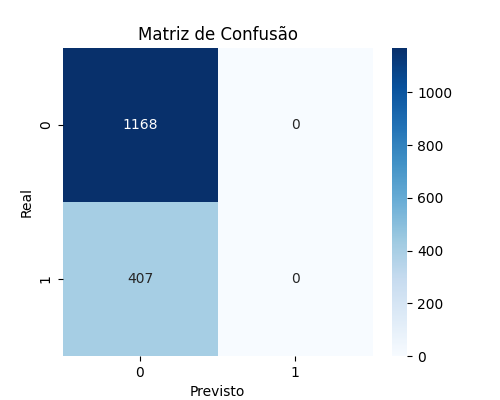
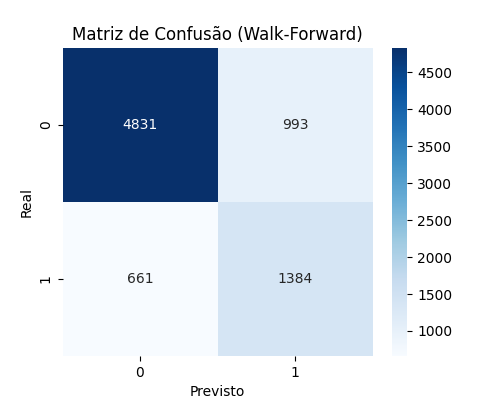
feat: implementando a lógica para prever se vai chover com base nos dados que o usuário disponibilizou

diff --git a/main.py b/main.py
@@ -1,52 +1,89 @@
-from src import data_preprocessing, feature_engineering, model, evaluate, predict
+from src import data_preprocessing, feature_engineering
 
 def main():
-    # 1. Carrega e limpa os dados de múltiplas planilhas
-    excel_files = [
-        "data/raw/open-meteo-10.65S37.41W187m.xlsx"
-    ]
-    df = data_preprocessing.load_and_clean(excel_files)
+    print("Escolha uma opção:")
+    print("1 - Treinar e avaliar IA (walk-forward)")
+    print("2 - Inserir 3 linhas de dados para previsão manual")
+    opcao = input("Digite 1 ou 2: ").strip()
 
-    print("Primeiras linhas da planilha:")
-    print(df.head())
+    if opcao == "1":
+        excel_files = ["data/raw/open-meteo-10.65S37.41W187m.xlsx"]
+        df = data_preprocessing.load_and_clean(excel_files)
+        X, y = feature_engineering.create_features(df)
+        from sklearn.preprocessing import StandardScaler
+        features = X.columns.tolist()
+        scaler = StandardScaler()
+        X_normalized = X.copy()
+        X_normalized[features] = scaler.fit_transform(X[features])
+        import matplotlib.pyplot as plt
+        plt.bar(df["chuva"].value_counts().index, df["chuva"].value_counts().values, color=["blue", "green"])
+        plt.xticks([0, 1], ["Não Chove", "Chove"])
+        plt.xlabel("Classe (Chuva)")
+        plt.ylabel("Número de Registros")
+        plt.title("Distribuição da Variável Chuva")
+        plt.show()
+        from sklearn.neural_network import MLPClassifier
+        from sklearn.metrics import accuracy_score
+        y_true = []
+        y_pred = []
+        window = 3
+        for i in range(window, len(X)):
+            X_train = X.iloc[i-window:i]
+            y_train = y.iloc[i-window:i]
+            X_test = X.iloc[[i]]
+            y_test = y.iloc[[i]]
+            model = MLPClassifier(hidden_layer_sizes=(100, 50), max_iter=2000, random_state=42)
+            model.fit(X_train, y_train)
+            pred = model.predict(X_test)[0]
+            y_true.append(y_test.values[0])
+            y_pred.append(pred)
+        acc = accuracy_score(y_true, y_pred)
+        print(f"\n🎯 Acurácia walk-forward: {acc:.2f}")
+        from sklearn.metrics import classification_report, confusion_matrix
+        print("\n📊 Relatório de Classificação:")
+        print(classification_report(y_true, y_pred))
+        import seaborn as sns
+        cm = confusion_matrix(y_true, y_pred)
+        plt.figure(figsize=(5,4))
+        sns.heatmap(cm, annot=True, fmt="d", cmap="Blues")
+        plt.title("Matriz de Confusão (Walk-Forward)")
+        plt.xlabel("Previsto")
+        plt.ylabel("Real")
+        plt.savefig("reports/figures/matriz_confusao.png")
+        plt.close()
 
-    # 2. Feature Engineering
-    X, y = feature_engineering.create_features(df)
-
-    # 3. Normalização (igual ao script antigo)
-    from sklearn.preprocessing import StandardScaler
-    features = X.columns.tolist()
-    scaler = StandardScaler()
-    X_normalized = X.copy()
-    X_normalized[features] = scaler.fit_transform(X[features])
-    df_normalized = X_normalized.copy()
-    if 'chuva' in df.columns:
-        df_normalized['chuva'] = df['chuva']
-    print("\nDados normalizados (primeiras linhas):")
-    print(df_normalized.head())
-
-    # 4. Distribuição da variável alvo (Chuva)
-    print("\nDistribuição da variável Chuva:")
-    print(df["chuva"].value_counts())
-
-    import matplotlib.pyplot as plt
-    plt.bar(df["chuva"].value_counts().index, df["chuva"].value_counts().values, color=["blue", "green"])
-    plt.xticks([0, 1], ["Não Chove", "Chove"])
-    plt.xlabel("Classe (Chuva)")
-    plt.ylabel("Número de Registros")
-    plt.title("Distribuição da Variável Chuva")
-    plt.show()
-
-    # 5. Treinamento do modelo
-    trained_model, X_test, y_test = model.train_model(X, y)
-
-    # 6. Avaliação
-    evaluate.evaluate_model(trained_model, X_test, y_test)
-
-    # 7. Predição com novos dados (exemplo)
-    new_data = {"temperatura": 20, "umidade": 90, "pressao": 1012}  # ajuste nomes conforme colunas
-    result = predict.make_prediction(trained_model, new_data)
-    print(f"\n📌 Previsão para novos dados: {result}")
+    elif opcao == "2":
+        features = [
+            'temperature_2m (°c)',
+            'relative_humidity_2m (%)',
+            'pressure_msl (hpa)',
+            'surface_pressure (hpa)'
+        ]
+        ultimos = []
+        for i in range(3):
+            linha = {}
+            print(f"\nLinha {i+1}:")
+            for feat in features:
+                valor = float(input(f"{feat}: "))
+                linha[feat] = valor
+            ultimos.append(linha)
+        import pandas as pd
+        excel_files = ["data/raw/open-meteo-10.65S37.41W187m.xlsx"]
+        df = data_preprocessing.load_and_clean(excel_files)
+        X, y = feature_engineering.create_features(df)
+        from sklearn.preprocessing import StandardScaler
+        scaler = StandardScaler()
+        X_scaled = scaler.fit_transform(X)
+        from sklearn.neural_network import MLPClassifier
+        model = MLPClassifier(hidden_layer_sizes=(100, 50), max_iter=2000, random_state=42)
+        model.fit(X_scaled, y)
+        X_input = pd.DataFrame(ultimos)
+        X_input_scaled = scaler.transform(X_input)
+        pred = model.predict([X_input_scaled[-1]])[0]
+        print("\nPrevisão para a próxima hora:")
+        print("Vai chover ☔" if pred == 1 else "Não vai chover ☀")
+    else:
+        print("Opção inválida!")
 
 if __name__ == "__main__":
     main()

diff --git a/src/data_preprocessing.py b/src/data_preprocessing.py
@@ -18,32 +18,22 @@ def load_and_clean(paths: List[str]):
 
     for path in paths:
         if 'open-meteo' in path:
-            # Lê a planilha usando a linha 3 (header=3) como nomes das colunas meteorológicas
             df = pd.read_excel(path, header=3)
-            # Remove linhas totalmente vazias
             df = df.dropna(how='all')
-            # Remove colunas com todos os valores nulos
             df = df.dropna(axis=1, how='all')
-            # Remove acentos e padroniza nomes de colunas para minúsculo
             df.columns = [remover_acentos(str(col)).lower() for col in df.columns]
-            # Cria coluna binária 'chuva' a partir de 'precipitation (mm)' (apenas para linhas numéricas)
             if 'precipitation (mm)' in df.columns:
-                # Remove linhas onde precipitation (mm) não é número
                 df = df[pd.to_numeric(df['precipitation (mm)'], errors='coerce').notnull()]
                 df['precipitation (mm)'] = df['precipitation (mm)'].astype(float)
                 df['chuva'] = (df['precipitation (mm)'] > 0).astype(int)
-            # Remove linhas totalmente vazias
             df = df.dropna(how='all')
-            # Remove colunas com todos os valores nulos
             df = df.dropna(axis=1, how='all')
-            # Remove acentos e padroniza nomes de colunas para minúsculo
             df.columns = [remover_acentos(str(col)).lower() for col in df.columns]
-            # Cria coluna binária 'chuva' a partir de 'precipitation (mm)'
             if 'precipitation (mm)' in df.columns:
                 df['chuva'] = (df['precipitation (mm)'] > 0).astype(int)
         else:
             df = pd.read_excel(path)
-            df = df.dropna()  # remove linhas com valores nulos
+            df = df.dropna()
             df.columns = [remover_acentos(str(col)).lower() for col in df.columns]
             for col in df.columns:
                 if col.replace(' ', '').replace('_', '').startswith('data') and ('hora' in col or 'hr' in col):
@@ -52,9 +42,7 @@ def load_and_clean(paths: List[str]):
                 df['data/hora'] = pd.to_datetime(df['data/hora'], errors='coerce')
         dataframes.append(df)
 
-    # Concatena todas as planilhas em um único DataFrame
     combined_df = pd.concat(dataframes, ignore_index=True)
-    # Garante que a coluna data/hora está em datetime
     if 'data/hora' in combined_df.columns:
         combined_df['data/hora'] = pd.to_datetime(combined_df['data/hora'], errors='coerce')
     return combined_df

diff --git a/src/predict.py b/src/predict.py
@@ -8,13 +8,10 @@ def make_prediction(model, new_data: dict):
     new_data = {"temperatura": 20, "umidade": 90, "pressao": 1012}
     """
     import datetime
-    # Gera features temporais se não existirem
     df = pd.DataFrame([new_data])
-    # Adiciona colunas de features temporais se o modelo espera
     for col in ['Ano', 'Mes', 'Dia', 'Hora', 'Minuto']:
         if col not in df.columns:
             df[col] = datetime.datetime.now().__getattribute__(col.lower()) if hasattr(datetime.datetime.now(), col.lower()) else 0
-    # Garante ordem das colunas igual ao modelo
     if hasattr(model, 'feature_names_in_'):
         df = df.reindex(columns=model.feature_names_in_, fill_value=0)
     prediction = model.predict(df)[0]

diff --git a/src/feature_engineering.py b/src/feature_engineering.py
@@ -1,17 +1,14 @@
 import pandas as pd
 
 def create_features(df):
-    # Seleciona apenas as colunas meteorológicas relevantes
     colunas_relevantes = [
         'temperature_2m (°c)',
         'relative_humidity_2m (%)',
         'pressure_msl (hpa)',
         'surface_pressure (hpa)'
     ]
-    # Garante que as colunas existem
     X = df[[col for col in colunas_relevantes if col in df.columns]].copy()
     y = df["chuva"] if "chuva" in df.columns else None
-    # Remove linhas com NaN nas features ou no alvo
     dados = pd.concat([X, y], axis=1).dropna()
     X = dados[colunas_relevantes]
     y = dados["chuva"]

diff --git a/src/evaluate.py b/src/evaluate.py
@@ -13,7 +13,6 @@ def evaluate_model(model, X_test, y_test):
     print("\n📊 Relatório de Classificação:")
     print(classification_report(y_test, y_pred))
     
-    # Matriz de confusão
     cm = confusion_matrix(y_test, y_pred)
     plt.figure(figsize=(5,4))
     sns.heatmap(cm, annot=True, fmt="d", cmap="Blues")

diff --git a/src/model.py b/src/model.py
@@ -14,7 +14,6 @@ def train_model(X, y):
     model = MLPClassifier(hidden_layer_sizes=(100, 50), max_iter=500, random_state=42)
     model.fit(X_train, y_train)
     
-    # Salva o modelo treinado
     joblib.dump(model, "models/model.pkl")
     
     return model, X_test, y_test

diff --git a/src/inspeciona_planilha.py b/src/inspeciona_planilha.py
@@ -1,9 +1,7 @@
 import pandas as pd
 
-# Caminho para a nova planilha
 file_path = "data/raw/open-meteo-10.65S37.41W187m.xlsx"
 
-# Lê apenas as primeiras linhas para inspecionar as colunas
 df = pd.read_excel(file_path)
 print("Colunas da planilha:")
 print(df.columns)
